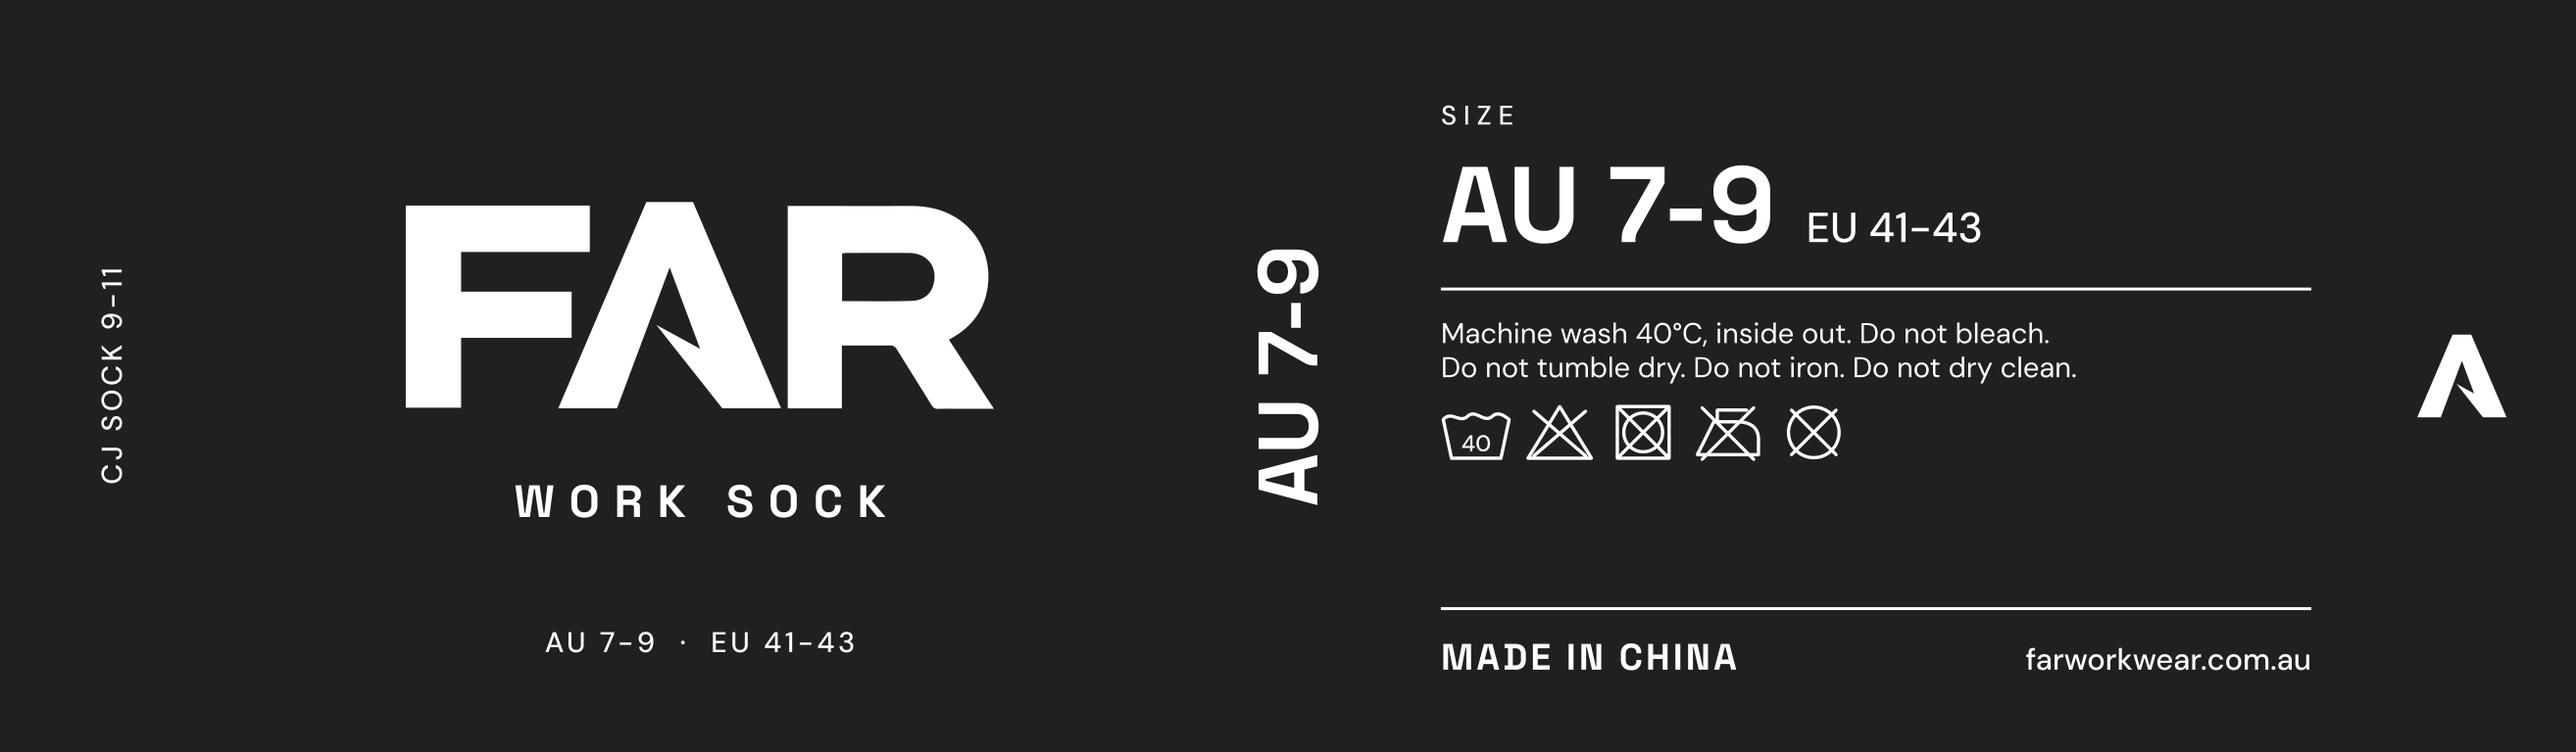
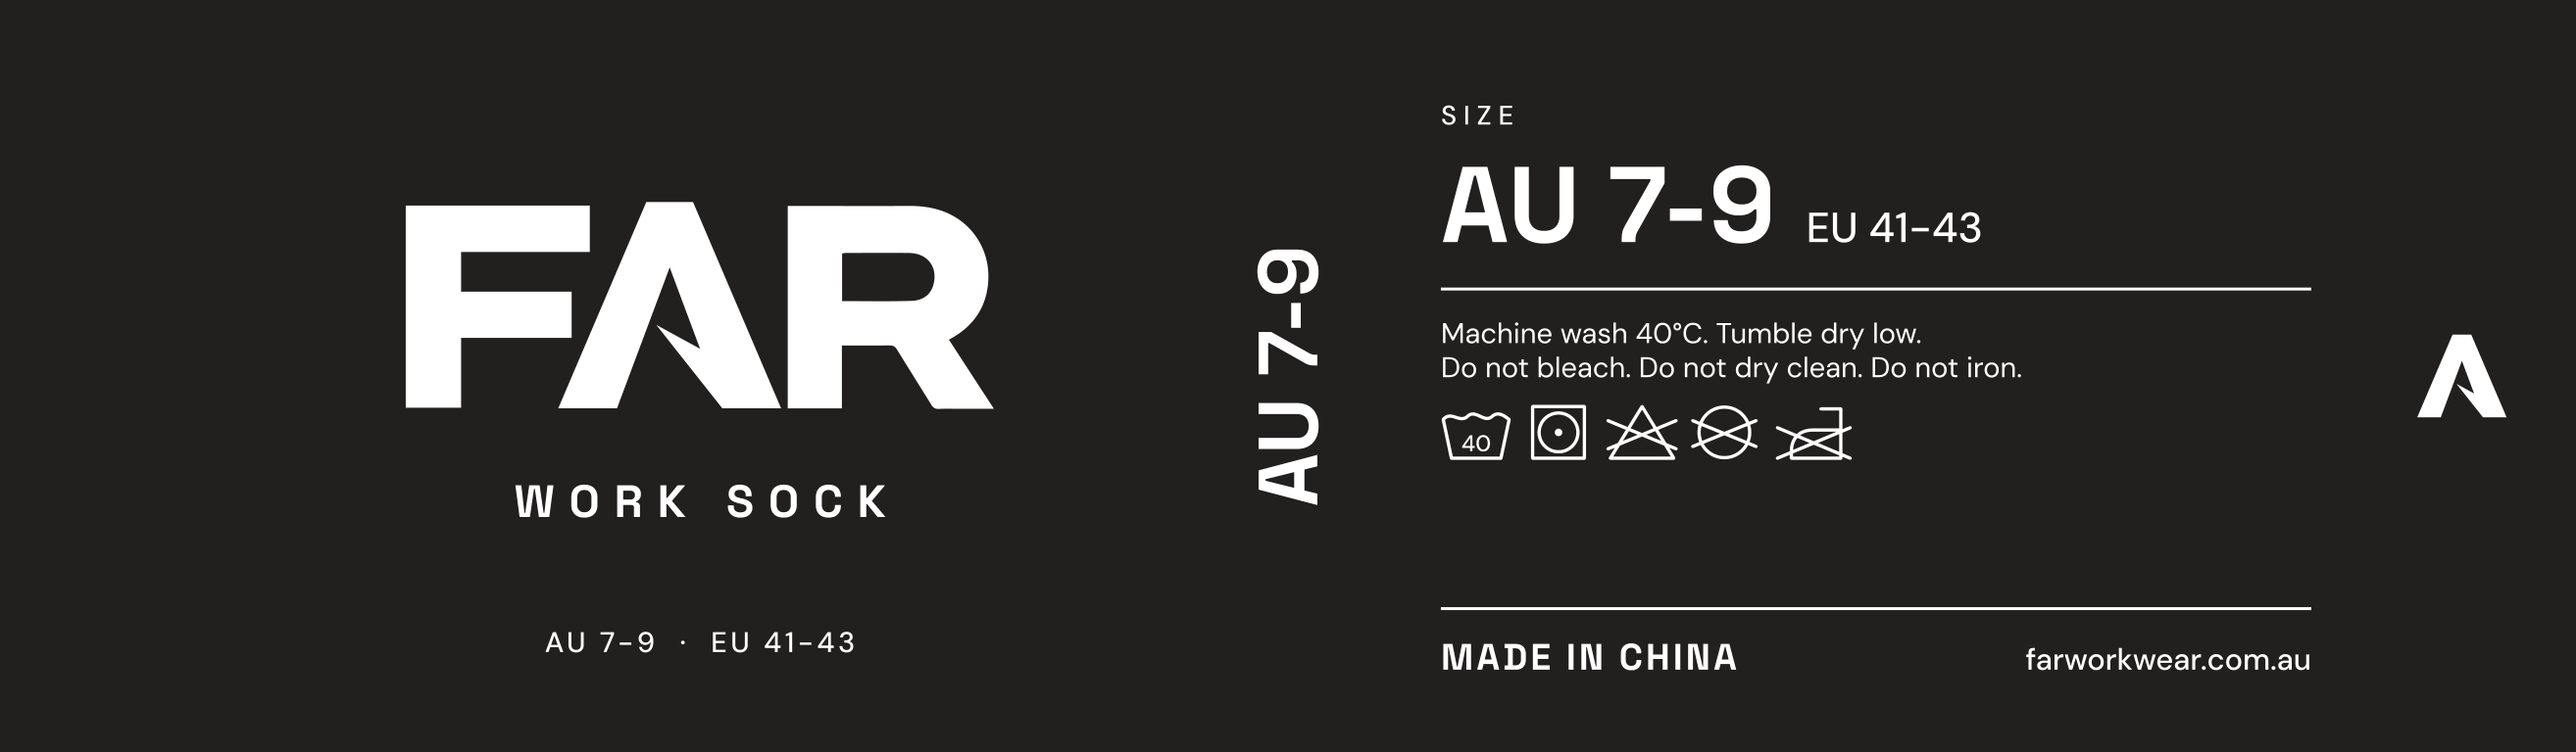
Sock band: template care symbols, blank glue strip (S1305)

Changed region(s): [[0.5928, 0.5312, 0.7177, 0.625], [0.5928, 0.4375, 0.8113, 0.5], [0.0312, 0.4062, 0.0624, 0.4375]]

diff --git a/far-sock-band-q4n8.html b/far-sock-band-q4n8.html
@@ -38,7 +38,7 @@
 <img src="far-sock-band-q4n8-c.png" alt="Sock band for boot sizes AU 12 to 14">
 <p class="cap">Band C: boots AU 12-14 (EU 47-49). 120 pairs.</p>
 
-<p>Left to right: a glue strip that gets covered, the front, the side, the back, and a tuck flap with the A on it. The front says FAR, WORK SOCK and the size. The side shows the size in big letters so the packers can read it in a carton. The back has the size, the washing instructions (the law says socks have to carry them), Made in China and the website.</p>
+<p>Left to right: a glue strip that gets covered, the front, the side, the back, and a tuck flap with the A on it. The front says FAR, WORK SOCK and the size. The side shows the size in big letters so the packers can read it in a carton. The back has the size, the washing instructions (the law says socks have to carry them), Made in China and the website. The washing symbols are the five on the template Mary linked: wash at 40, tumble dry low, no bleach, no dry cleaning, no ironing. The strip on the far left gets covered when the band closes, so it's left blank.</p>
 <p>It's one colour, black, printed on white card. That's the cheapest print job there is, and it matches the black box.</p>
 
 <h2>What Mary actually sent</h2>
